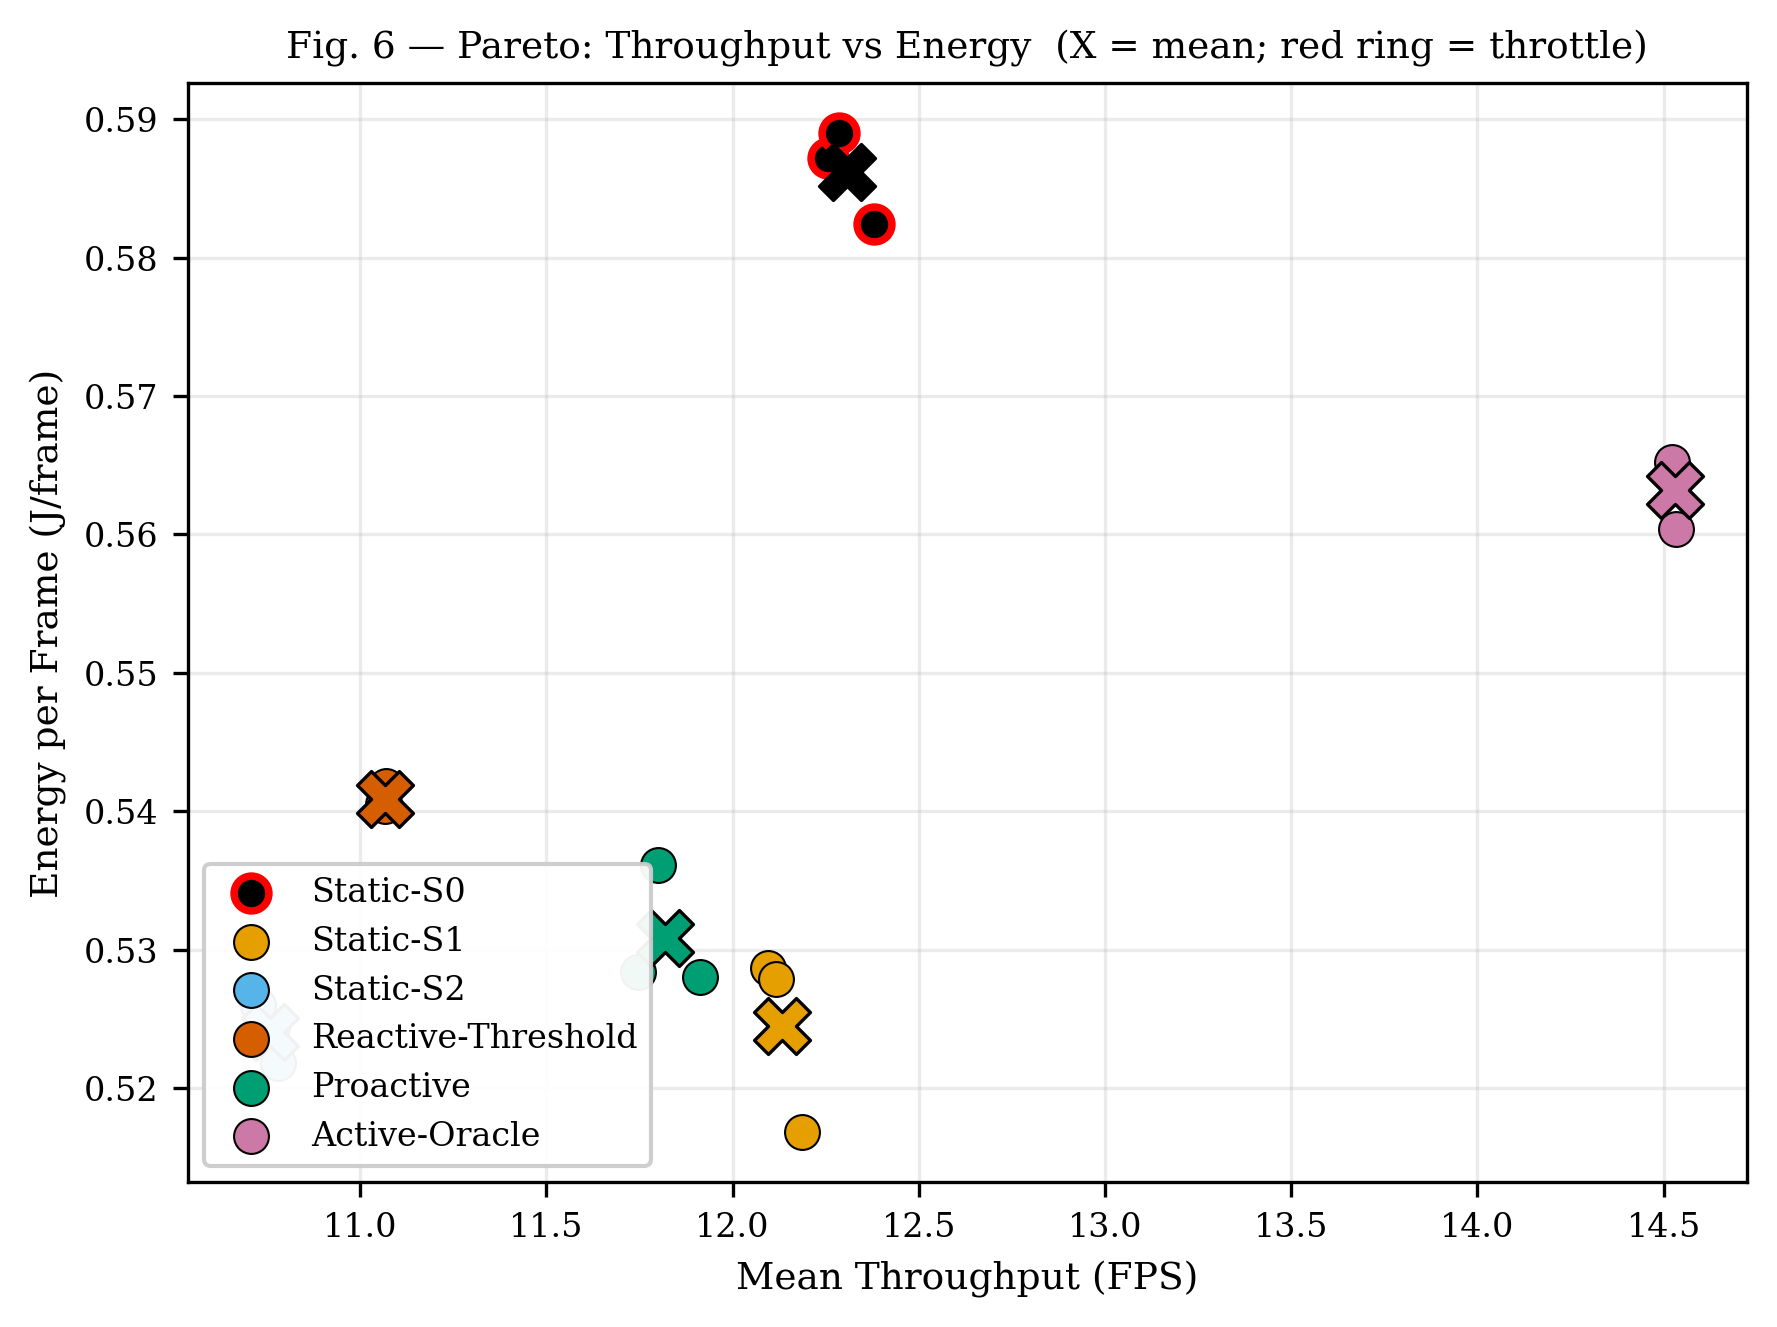
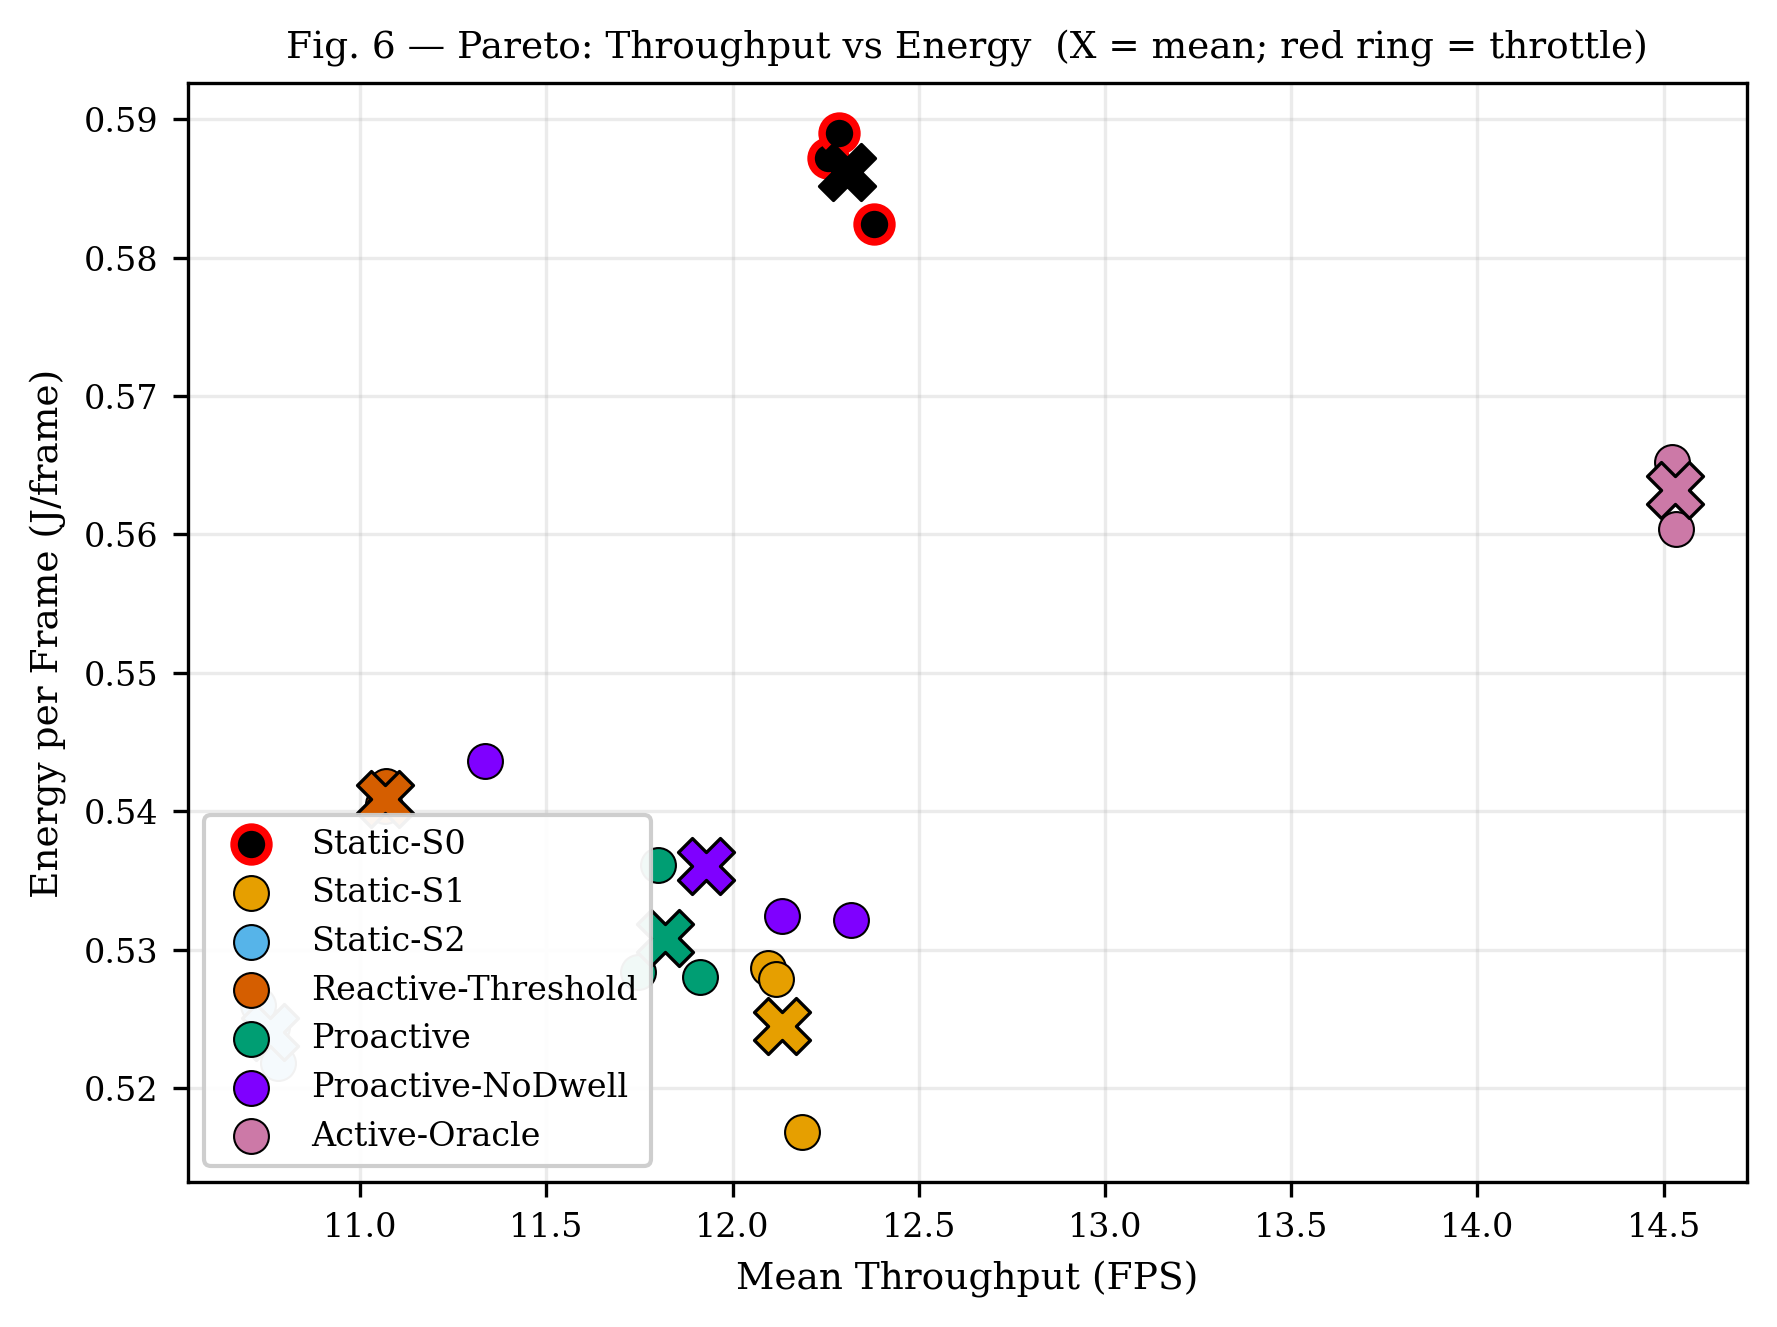
v0.13.0: integrate no-dwell ablation (n=3); supersede v0.12.1 FPS table

diff --git a/03_code/analysis/analyze_powerz_robust.py b/03_code/analysis/analyze_powerz_robust.py
@@ -97,6 +97,12 @@ MAPPING: List[RunPair] = [
             "2026-05-24_190352_thermalval_S0_active_cooling", "Active-Oracle", 2),
     RunPair("active_cooling_S0_rep3.db",
             "2026-05-24_193737_thermalval_S0_active_cooling", "Active-Oracle", 3),
+    RunPair("2026-06-05_nodwell_rep1.db",
+            "2026-06-05_183203_scheduled_high_S0_rep1", "Proactive-NoDwell", 1),
+    RunPair("2026-06-05_nodwell_rep2.db",
+            "2026-06-05_190704_scheduled_high_S0_rep2", "Proactive-NoDwell", 2),
+    RunPair("2026-06-05_nodwell_rep3.db",
+            "2026-06-05_195204_scheduled_high_S0_rep3", "Proactive-NoDwell", 3),
 ]
 
 
@@ -221,7 +227,7 @@ def main():
     print(f"{'Condition':<22} {'n':>3} {'Power_W':>18} {'J/frame':>18}")
     print("-" * 65)
     for cond in ["Static-S0","Static-S1","Static-S2",
-                 "Reactive-Threshold","Proactive (Ours)","Active-Oracle"]:
+                 "Reactive-Threshold","Proactive (Ours)","Proactive-NoDwell","Active-Oracle"]:
         if cond not in by_c: continue
         rows = by_c[cond]
         pw = [r["mean_power_w"] for r in rows]

diff --git a/03_code/analysis/generate_paper_figures.py b/03_code/analysis/generate_paper_figures.py
@@ -39,10 +39,11 @@ COLORS = {
     "Static-S2":          "#56B4E9",
     "Reactive-Threshold": "#D55E00",
     "Proactive":          "#009E73",
+    "Proactive-NoDwell":  "#7F00FF",
     "Active-Oracle":      "#CC79A7",
 }
 ORDER = ["Static-S0","Static-S1","Static-S2",
-         "Reactive-Threshold","Proactive","Active-Oracle"]
+         "Reactive-Threshold","Proactive","Proactive-NoDwell","Active-Oracle"]
 
 # Hardcoded mapping — same run dirs as compute_statistics.py
 MAPPING: Dict[str, List[str]] = {
@@ -70,6 +71,11 @@ MAPPING: Dict[str, List[str]] = {
         "2026-05-06_011427_scheduled_high_S0_rep1",
         "2026-05-06_031811_scheduled_high_S0_rep2",
         "2026-05-06_035911_scheduled_high_S0_rep3",
+    ],
+    "Proactive-NoDwell": [
+        "2026-06-05_183203_scheduled_high_S0_rep1",
+        "2026-06-05_190704_scheduled_high_S0_rep2",
+        "2026-06-05_195204_scheduled_high_S0_rep3",
     ],
     "Active-Oracle": [
         "2026-05-24_182759_thermalval_S0_active_cooling",

diff --git a/03_code/analysis/compute_sustainability_metrics.py b/03_code/analysis/compute_sustainability_metrics.py
@@ -59,6 +59,11 @@ MAPPING: Dict[str, List[str]] = {
         "2026-05-06_031811_scheduled_high_S0_rep2",
         "2026-05-06_035911_scheduled_high_S0_rep3",
     ],
+    "Proactive-NoDwell": [
+        "2026-06-05_183203_scheduled_high_S0_rep1",
+        "2026-06-05_190704_scheduled_high_S0_rep2",
+        "2026-06-05_195204_scheduled_high_S0_rep3",
+    ],
     "Active-Oracle": [
         "2026-05-24_182759_thermalval_S0_active_cooling",
         "2026-05-24_190352_thermalval_S0_active_cooling",
@@ -182,7 +187,7 @@ def main():
 
     aggregated = []
     for cond in ["Static-S0","Static-S1","Static-S2",
-                 "Reactive-Threshold","Proactive","Active-Oracle"]:
+                 "Reactive-Threshold","Proactive","Proactive-NoDwell","Active-Oracle"]:
         if cond not in by_cond:
             continue
         per_run = [per_run_metrics(d) for d in by_cond[cond] if d.exists()]

diff --git a/03_code/analysis/compute_paper_statistics.py b/03_code/analysis/compute_paper_statistics.py
@@ -86,7 +86,7 @@ def main():
     # Per-condition aggregation
     cond_rows = []
     for cond in ["Static-S0","Static-S1","Static-S2",
-                 "Reactive-Threshold","Proactive","Active-Oracle"]:
+                 "Reactive-Threshold","Proactive", "Proactive-NoDwell","Active-Oracle"]:
         if cond not in by_c:
             continue
         reps = by_c[cond]
@@ -122,7 +122,7 @@ def main():
     proactive = by_c["Proactive"]
     pair_rows = []
     for compare_to in ["Reactive-Threshold","Static-S1","Static-S2",
-                       "Static-S0","Active-Oracle"]:
+                       "Static-S0","Proactive-NoDwell","Active-Oracle"]:
         if compare_to not in by_c:
             continue
         ref = by_c[compare_to]

diff --git a/01_documentation/CHANGELOG.md b/01_documentation/CHANGELOG.md
@@ -7,6 +7,36 @@ Format: ## [YYYY-MM-DD] Short Title
 Each entry includes: Added / Changed / Removed / Notes sections as needed.
 
 ---
+
+## v0.13.0 — 2026-06-05
+### Added — No-dwell ablation (n=3 paper-quality)
+- Proactive-NoDwell: dwell_time_s = 0.0, all other params identical to Proactive.
+- n=3, 30-min, WiFi blocked, ambient 24.9/23.3/24.6°C (rep1/2/3); ~1-2°C above
+  the 23°C campaign nominal — reported explicitly in the paper.
+- PowerZ recorded all three (2026-06-05_nodwell_rep{1,2,3}.db). n=1 pilot
+  (2026-06-01) deleted before paper-quality runs.
+- Run dirs: 2026-06-05_{183203,190704,195204}_scheduled_high_S0_rep{1,2,3}.
+- Finding: removing dwell produces erratic, run-dependent behavior — rep1 locked
+  S1, reps2&3 escalated to S2 at divergent times (602s, 1520s). FPS std rose
+  0.070→0.426 (6.1×), power std 0.050→0.167 (3.3×). d_FPS(Proactive vs NoDwell)
+  = -0.21 (negligible): dwell is a regulation/reproducibility mechanism, NOT a
+  throughput win. Trades ~1% FPS for thermal regulation.
+- Code: branch ablation/no-dwell-2026-05-25 (NOT merged to main; main dwell=20.0).
+
+### Changed — analysis scripts (Proactive-NoDwell condition added)
+- analyze_powerz_robust.py: MAPPING + per-condition summary loop.
+- compute_paper_statistics.py: per-condition list + pairwise compare_to list.
+- compute_sustainability_metrics.py: MAPPING + aggregation loop.
+- generate_paper_figures.py: COLORS (#7F00FF), ORDER, MAPPING.
+- Pipeline re-run clean: 21/21 runs, 100% PowerZ coverage.
+
+### Superseded — No Silent Changes disclosure
+- The v0.12.1 "FINAL LOCKED RESULTS" table (Static-S0 FPS 13.200, Proactive
+  12.574, etc.) used the telemetry-derived FPS method. It is SUPERSEDED by the
+  inference_log throughput method. Single source of truth for all paper FPS/
+  power/J-frame numbers is now condition_stats_paper.csv (Static-S0 12.307,
+  Proactive 11.820). No data changed — only the FPS denominator definition.
+
 ## v0.12.1 — 2026-05-25
 ### Fixed
 - run_thermal_validation.py: --cooling-condition argument replaces the
